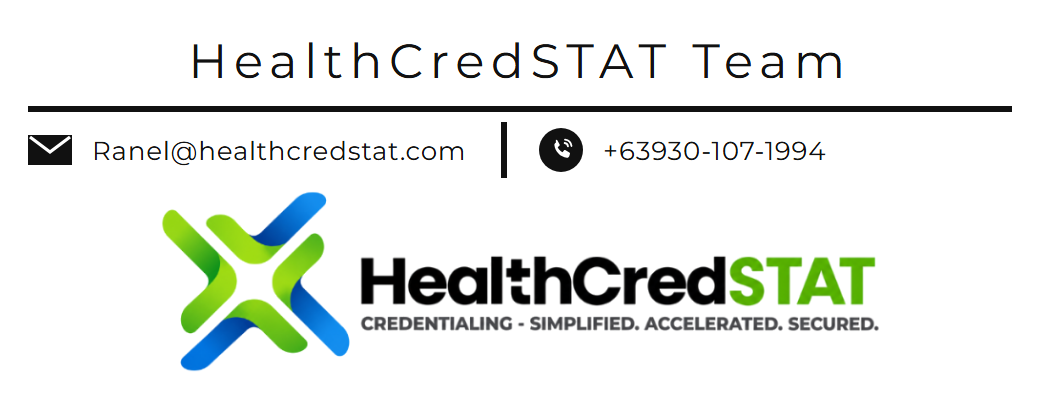
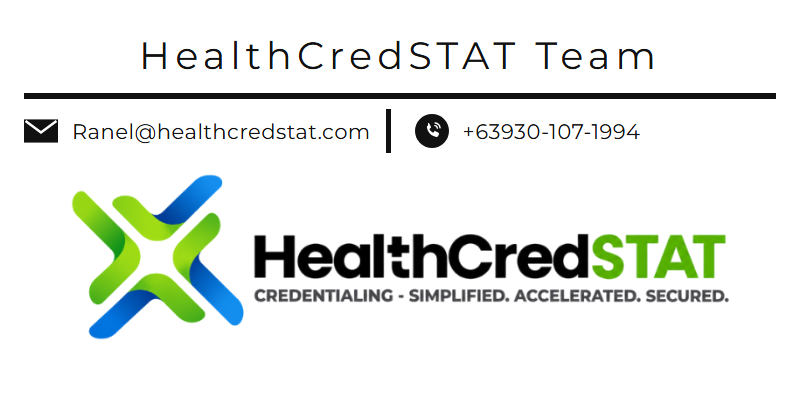
Show the welcome email signature at 400x200 and bold "Best regards,"
The signature image is re-rendered at 400x200 (stored at 800x400 for
sharp screens) with a slightly larger logo, and the email sets those
dimensions on the image.

Changed region(s): [[0.0, 0.09, 0.9688, 0.93]]

diff --git a/frontend/src/features/contact/services/welcome-email.server.ts b/frontend/src/features/contact/services/welcome-email.server.ts
@@ -51,11 +51,11 @@ export function welcomeEmailHtml(lead: ContactFormValues, signatureUrl: string):
 </ul>
 <p style="margin:0 0 4px;"><strong>Your request</strong></p>
 <p style="${p}">Practice type: ${escapeHtml(PRACTICE_TYPE_LABELS[lead.role])}${message ? `<br>Message: ${nl2br(message)}` : ''}</p>
-<p style="margin:0 0 18px;">Best regards,</p>
+<p style="margin:0 0 18px;"><strong>Best regards,</strong></p>
 <!-- Signature: one image of the team's Canva design (public/email/signature.png). Dark mode recolours email text
      and backgrounds but never images, so this stays white and identical everywhere. The alt text carries the
      details when images are blocked, and the image links to the reply address. -->
-<a href="mailto:${SIGNATURE.email}" style="text-decoration:none;"><img src="${escapeHtml(signatureUrl)}" alt="${SIGNATURE.name} · ${SIGNATURE.email} · ${SIGNATURE.phone}" width="520" style="display:block;border:0;width:520px;max-width:100%;height:auto;"></a>
+<a href="mailto:${SIGNATURE.email}" style="text-decoration:none;"><img src="${escapeHtml(signatureUrl)}" alt="${SIGNATURE.name} · ${SIGNATURE.email} · ${SIGNATURE.phone}" width="400" height="200" style="display:block;border:0;width:400px;max-width:100%;height:auto;"></a>
 </div>
 </body></html>`;
 }
